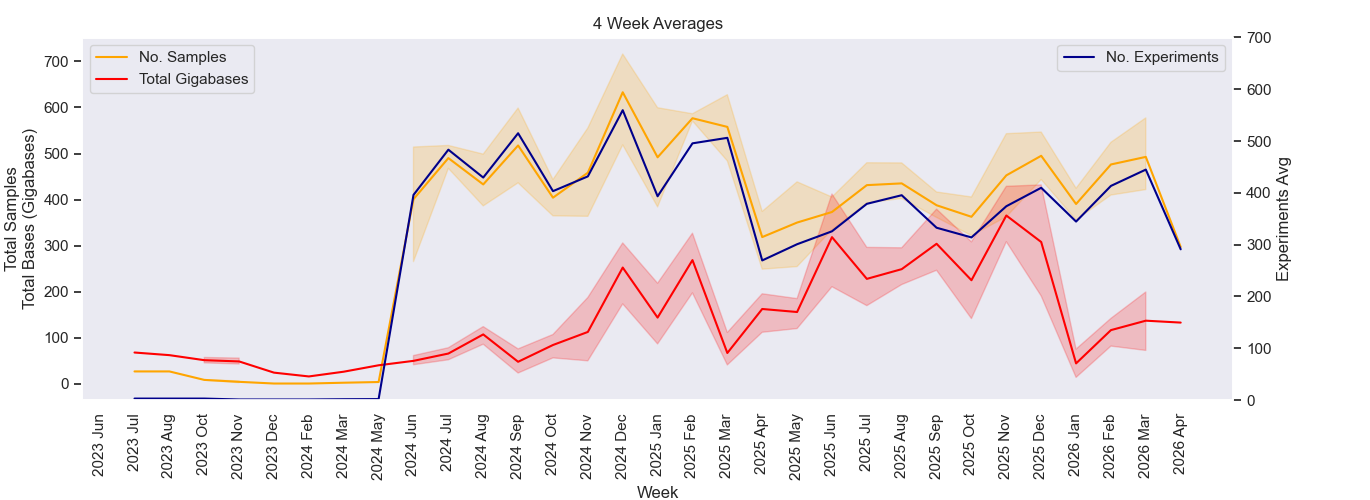
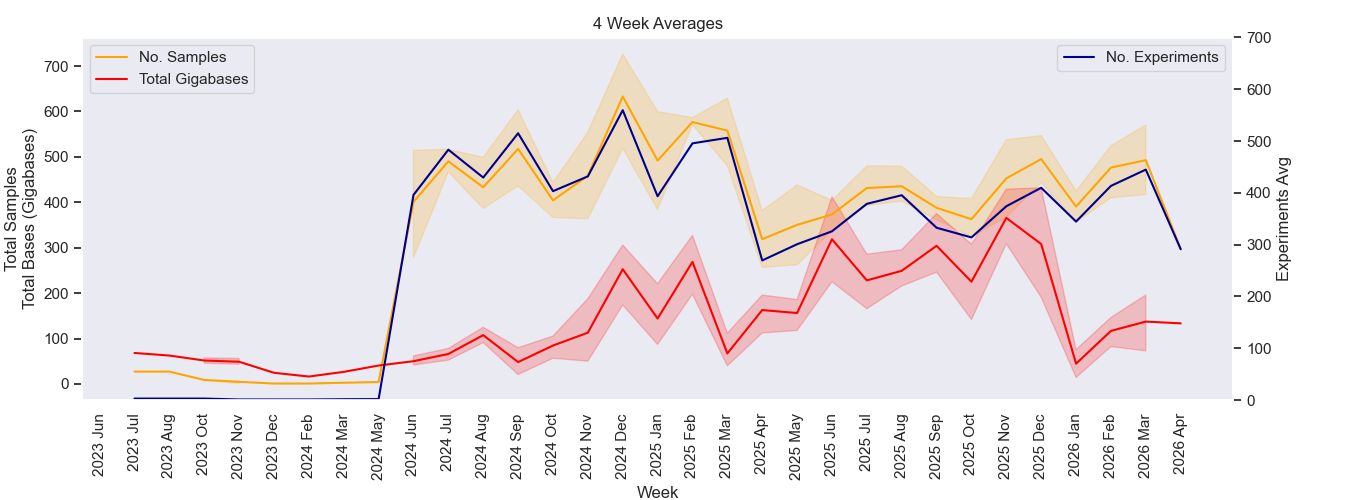
Your commit message here

diff --git a/krona/cgs.html b/krona/cgs.html
@@ -52,8 +52,8 @@ body {
   flex-direction: column;
 }
 </style>
-<H1>Genomics Facility Status: 07:00:11, 08/04/2026</H1>
-<marquee behavior="scroll" scrollamount="20" direction="left" bgcolor="lightgrey">AATAGCAGGTTTAAGAGCCTCGATACGCTCAAAGTCAAAATAATCAGCGTGACATTCAGAAGGGTAATAAGAACGAACCATAAAAAAGCCTCCAAGATTTGGAGGCATGAAAACATACAATTGGGAGGGTGTCAATCCTGACGGTTATTTCCTAGACAAATTAGAGCCAATACCATCAGCTTTACCGTCTTTCCAGAAATTGTTCCAAGTATCGGCAACAGCTTTATCAATACCATGAAAAATATC</marquee>
+<H1>Genomics Facility Status: 07:00:22, 09/04/2026</H1>
+<marquee behavior="scroll" scrollamount="20" direction="left" bgcolor="lightgrey">CAGATTTGTCATTGTGAGCATTTTCATCCCGAAGTTGCGGCTCATTCTGATTCTGCACAGCTTCTTGGGAAGTAGCGACAGCTTGGTTTTTAGTGAGTTGTTCCATTCTTTAGCTCCTAGACCTTTAGCAGCAAGGTCCATATCTGACTTTTTGTTAACGTATTTAGCCACATAGAAACCAACAGCCATATAACTGGTAGCTTTAAGCGGCTCACCTTTAGCATCAACAGGCCACAACCAACCAGAACGTG</marquee>
 <TABLE BORDER=0><TR><TD><TABLE class="styled-table"><H3>GigaBases Sequenced</H3>
-<TR><TD><b>Platform</b></TD><TD><b>Week</b></TD><TD><b>Month</b></TD><TD><b>Year</b></TD><TD><b>Total</b></TD></TR><TR><TD>Illumina MiSeq</TD><TD>0.0</TD><TD>17.05</TD><TD>343.56</TD><TD>517.1</TD></TR><TR><TD>Illumina NextSeq</TD><TD>0.0</TD><TD>242.05</TD><TD>4466.95</TD><TD>6463.94</TD></TR><TR><TD>Nanopore PromethION</TD><TD>35.16</TD><TD>742.16</TD><TD>7864.57</TD><TD>11875.78</TD></TR><TR><TD>Sanger</TD><TD>0.0</TD><TD>0.0</TD><TD>0.02</TD><TD>0.04</TD></TR></TABLE></TD><TD><IMG SRC="fig1.png"><IMG SRC="fig2.png"></TD></TR><TR><TD><H3>No. Samples (No. Experiments)</H3>
-<TABLE class="styled-table"><TR><TD><b>Platform</b></TD><TD><b>Week</b></TD><TD><b>Month</b></TD><TD><b>Year</b></TD><TD><b>Total</b></TD></TR><TR><TD>Illumina MiSeq</TD><TD>0 (0)</TD><TD>68 (2)</TD><TD>1481 (70)</TD><TD>2339 (93)</TD></TR><TR><TD>Illumina NextSeq</TD><TD>0 (0)</TD><TD>116 (4)</TD><TD>1364 (65)</TD><TD>2085 (83)</TD></TR><TR><TD>Nanopore PromethION</TD><TD>7 (7)</TD><TD>73 (23)</TD><TD>557 (187)</TD><TD>934 (321)</TD></TR><TR><TD>Sanger</TD><TD>480 (480)</TD><TD>2398 (2398)</TD><TD>20155 (20155)</TD><TD>42498 (42498)</TD></TR></TABLE></TD><TD><IMG SRC="fig4.png"></TD></TR></TABLE></HTML>
+<TR><TD><b>Platform</b></TD><TD><b>Week</b></TD><TD><b>Month</b></TD><TD><b>Year</b></TD><TD><b>Total</b></TD></TR><TR><TD>Illumina MiSeq</TD><TD>0.0</TD><TD>17.05</TD><TD>343.56</TD><TD>517.1</TD></TR><TR><TD>Illumina NextSeq</TD><TD>0.0</TD><TD>242.05</TD><TD>4466.95</TD><TD>6463.94</TD></TR><TR><TD>Nanopore PromethION</TD><TD>8.66</TD><TD>743.13</TD><TD>7865.53</TD><TD>11876.75</TD></TR><TR><TD>Sanger</TD><TD>0.0</TD><TD>0.0</TD><TD>0.02</TD><TD>0.04</TD></TR></TABLE></TD><TD><IMG SRC="fig1.png"><IMG SRC="fig2.png"></TD></TR><TR><TD><H3>No. Samples (No. Experiments)</H3>
+<TABLE class="styled-table"><TR><TD><b>Platform</b></TD><TD><b>Week</b></TD><TD><b>Month</b></TD><TD><b>Year</b></TD><TD><b>Total</b></TD></TR><TR><TD>Illumina MiSeq</TD><TD>0 (1)</TD><TD>68 (3)</TD><TD>1481 (71)</TD><TD>2339 (94)</TD></TR><TR><TD>Illumina NextSeq</TD><TD>0 (0)</TD><TD>116 (4)</TD><TD>1364 (65)</TD><TD>2085 (83)</TD></TR><TR><TD>Nanopore PromethION</TD><TD>3 (3)</TD><TD>73 (23)</TD><TD>557 (187)</TD><TD>934 (321)</TD></TR><TR><TD>Sanger</TD><TD>384 (384)</TD><TD>2398 (2398)</TD><TD>20155 (20155)</TD><TD>42498 (42498)</TD></TR></TABLE></TD><TD><IMG SRC="fig4.png"></TD></TR></TABLE></HTML>
